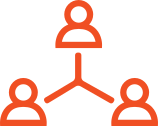
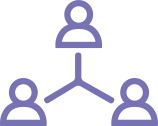
aligning palette

diff --git a/src/main/resources/org/sagebionetworks/web/client/resource/css/SynapseColor.css b/src/main/resources/org/sagebionetworks/web/client/resource/css/SynapseColor.css
@@ -6,6 +6,16 @@ a:visited{color:#3a5bdc; text-decoration:none;}
 a:hover{color:#3a5bdc; text-decoration:underline;}
 a:focus{color:#3a5bdc; text-decoration:underline;}
 
+.synapse-yellow {color:#f19223;}
+.synapse-blue {color:#207da8;}
+.synapse-purple {color:#7772b4;}
+.synapse-green {color:#17a666;}
+
+.synapse-yellow-bg {background-color:#f19223;}
+.synapse-blue-bg {background-color:#207da8;}
+.synapse-purple-bg {background-color:#7772b4;}
+.synapse-green-bg {background-color:#17a666;}
+
 .pagination>li>a, .pagination>li>span
 {
 	color: #3a5bdc;

diff --git a/src/main/webapp/Portal.css b/src/main/webapp/Portal.css
@@ -1191,7 +1191,7 @@ h1, h2, h3, h4, h5, h6 {
 
 /**********************************/
 	
-.wikifilepreviewimg {
+.center-in-div {
 	margin:auto; 
 	display:block;
 }
@@ -1645,9 +1645,8 @@ ol.lowerroman {
 }
 
 .small-header {
-	height: 90px;
-	background-color:#005f88;
-	padding: 20px;
+	height: 70px;
+	padding: 10px;
 }
 
 .largeHeader {

diff --git a/src/main/java/org/sagebionetworks/web/client/widget/entity/renderer/WikiFilesPreviewWidgetViewImpl.java b/src/main/java/org/sagebionetworks/web/client/widget/entity/renderer/WikiFilesPreviewWidgetViewImpl.java
@@ -48,7 +48,7 @@ public class WikiFilesPreviewWidgetViewImpl extends FlowPanel implements WikiFil
 				sb.append(ClientProperties.IMAGE_CENTERING_TABLE_START);
 				sb.append("<a class=\"item-preview spec-border-ie\" href=\"");
 				sb.append(DisplayUtils.createWikiAttachmentUrl(synapseJsniUtils.getBaseFileHandleUrl(), wikiKey, fileHandle.getFileName(),false));
-				sb.append("\"><img class=\"wikifilepreviewimg\" ");
+				sb.append("\"><img class=\"center-in-div\" ");
 				sb.append(" src=\"");
 				sb.append(DisplayUtils.createWikiAttachmentUrl(synapseJsniUtils.getBaseFileHandleUrl(), wikiKey, fileHandle.getFileName(),true));
 				sb.append("\"></img></a>");
